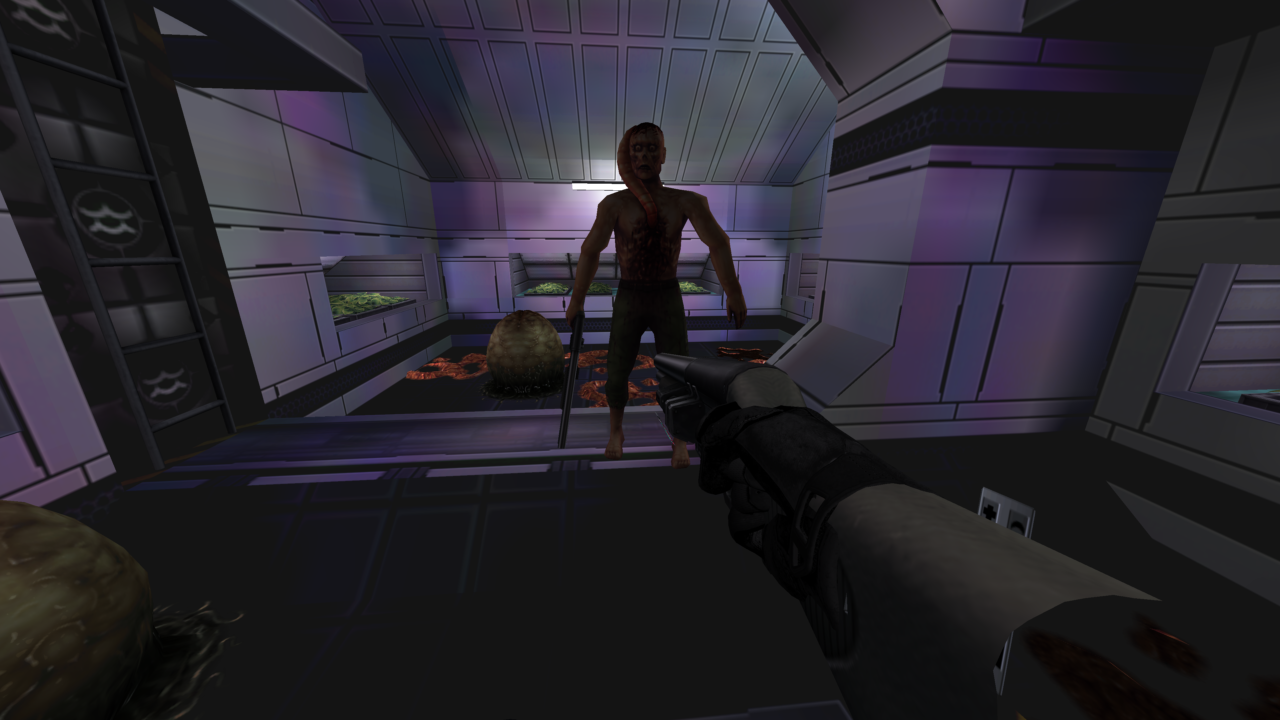
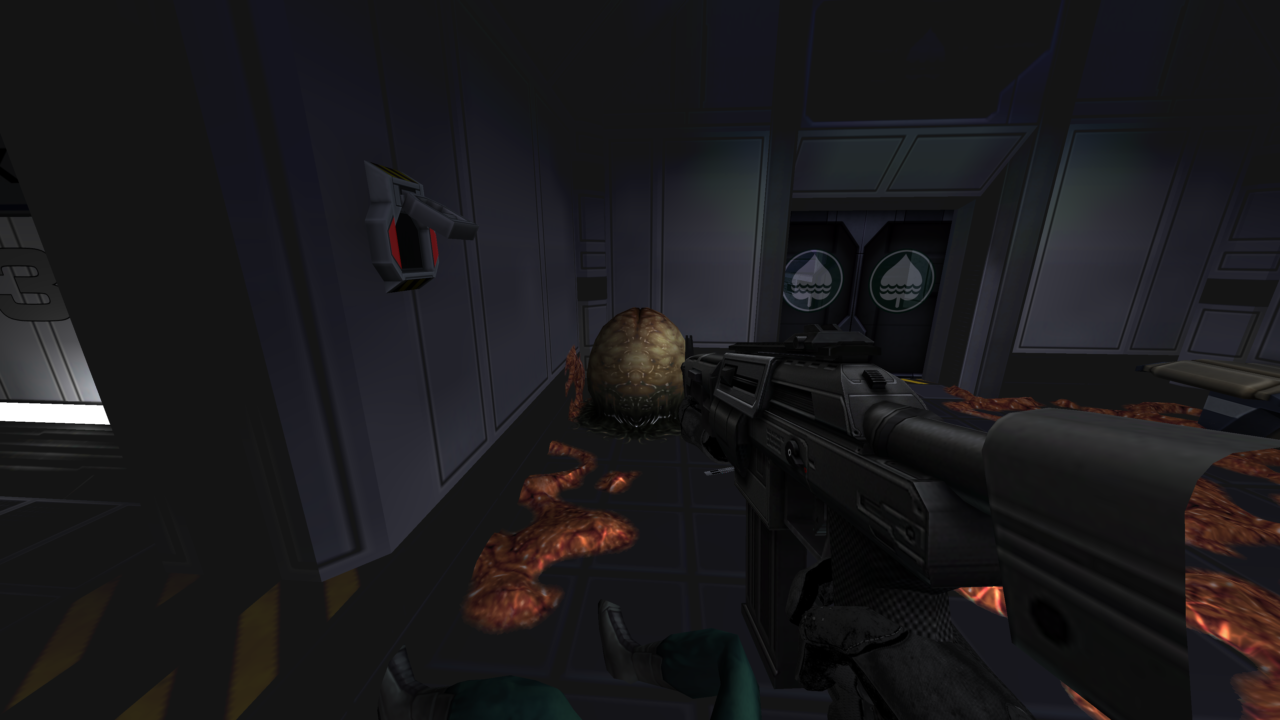
docs(readme): hydro1 two-handed rifle still and clip

diff --git a/README.md b/README.md
@@ -16,11 +16,11 @@ Once installed, copy `sshock2.kpf` and the `mods/` folder from it - see [DEVELOP
 
 ## Screenshots
 
-<img src="screenshots/hero/hydro1.png" alt="Hydroponics: shotgun on a hybrid" width="400"/> <img src="screenshots/hero/medsci1.png" alt="Med/Sci: wrench and pistol against a hybrid" width="400"/>
+<img src="screenshots/hero/hydro1.png" alt="Hydroponics: two-handed assault rifle on an egg pod" width="400"/> <img src="screenshots/hero/medsci1.png" alt="Med/Sci: wrench and pistol against a hybrid" width="400"/>
 <img src="screenshots/hero/ops2.png" alt="Operations: psi amp and laser pistol against a protocol droid" width="400"/> <img src="screenshots/hero/rec1.png" alt="Recreation: pistol on a monkey" width="400"/>
 
 <img src="screenshots/hero/medsci1-melee.gif" alt="Med/Sci: pistol in one hand, a wrench swing with the other" width="400"/> <img src="screenshots/hero/ops2.gif" alt="Operations: casting cryokinesis from the psi amp, then firing the laser pistol" width="400"/>
-<img src="screenshots/hero/rec1.gif" alt="Recreation: raising a pistol and firing at a charging monkey" width="400"/>
+<img src="screenshots/hero/rec1.gif" alt="Recreation: raising a pistol and firing at a charging monkey" width="400"/> <img src="screenshots/hero/hydro1.gif" alt="Hydroponics: two-handed assault rifle bursting an egg pod" width="400"/>
 
 Regenerate with `node scripts/hero-shots.mjs` from `tools/shock2-sdk` (after `npm run build`).
 
